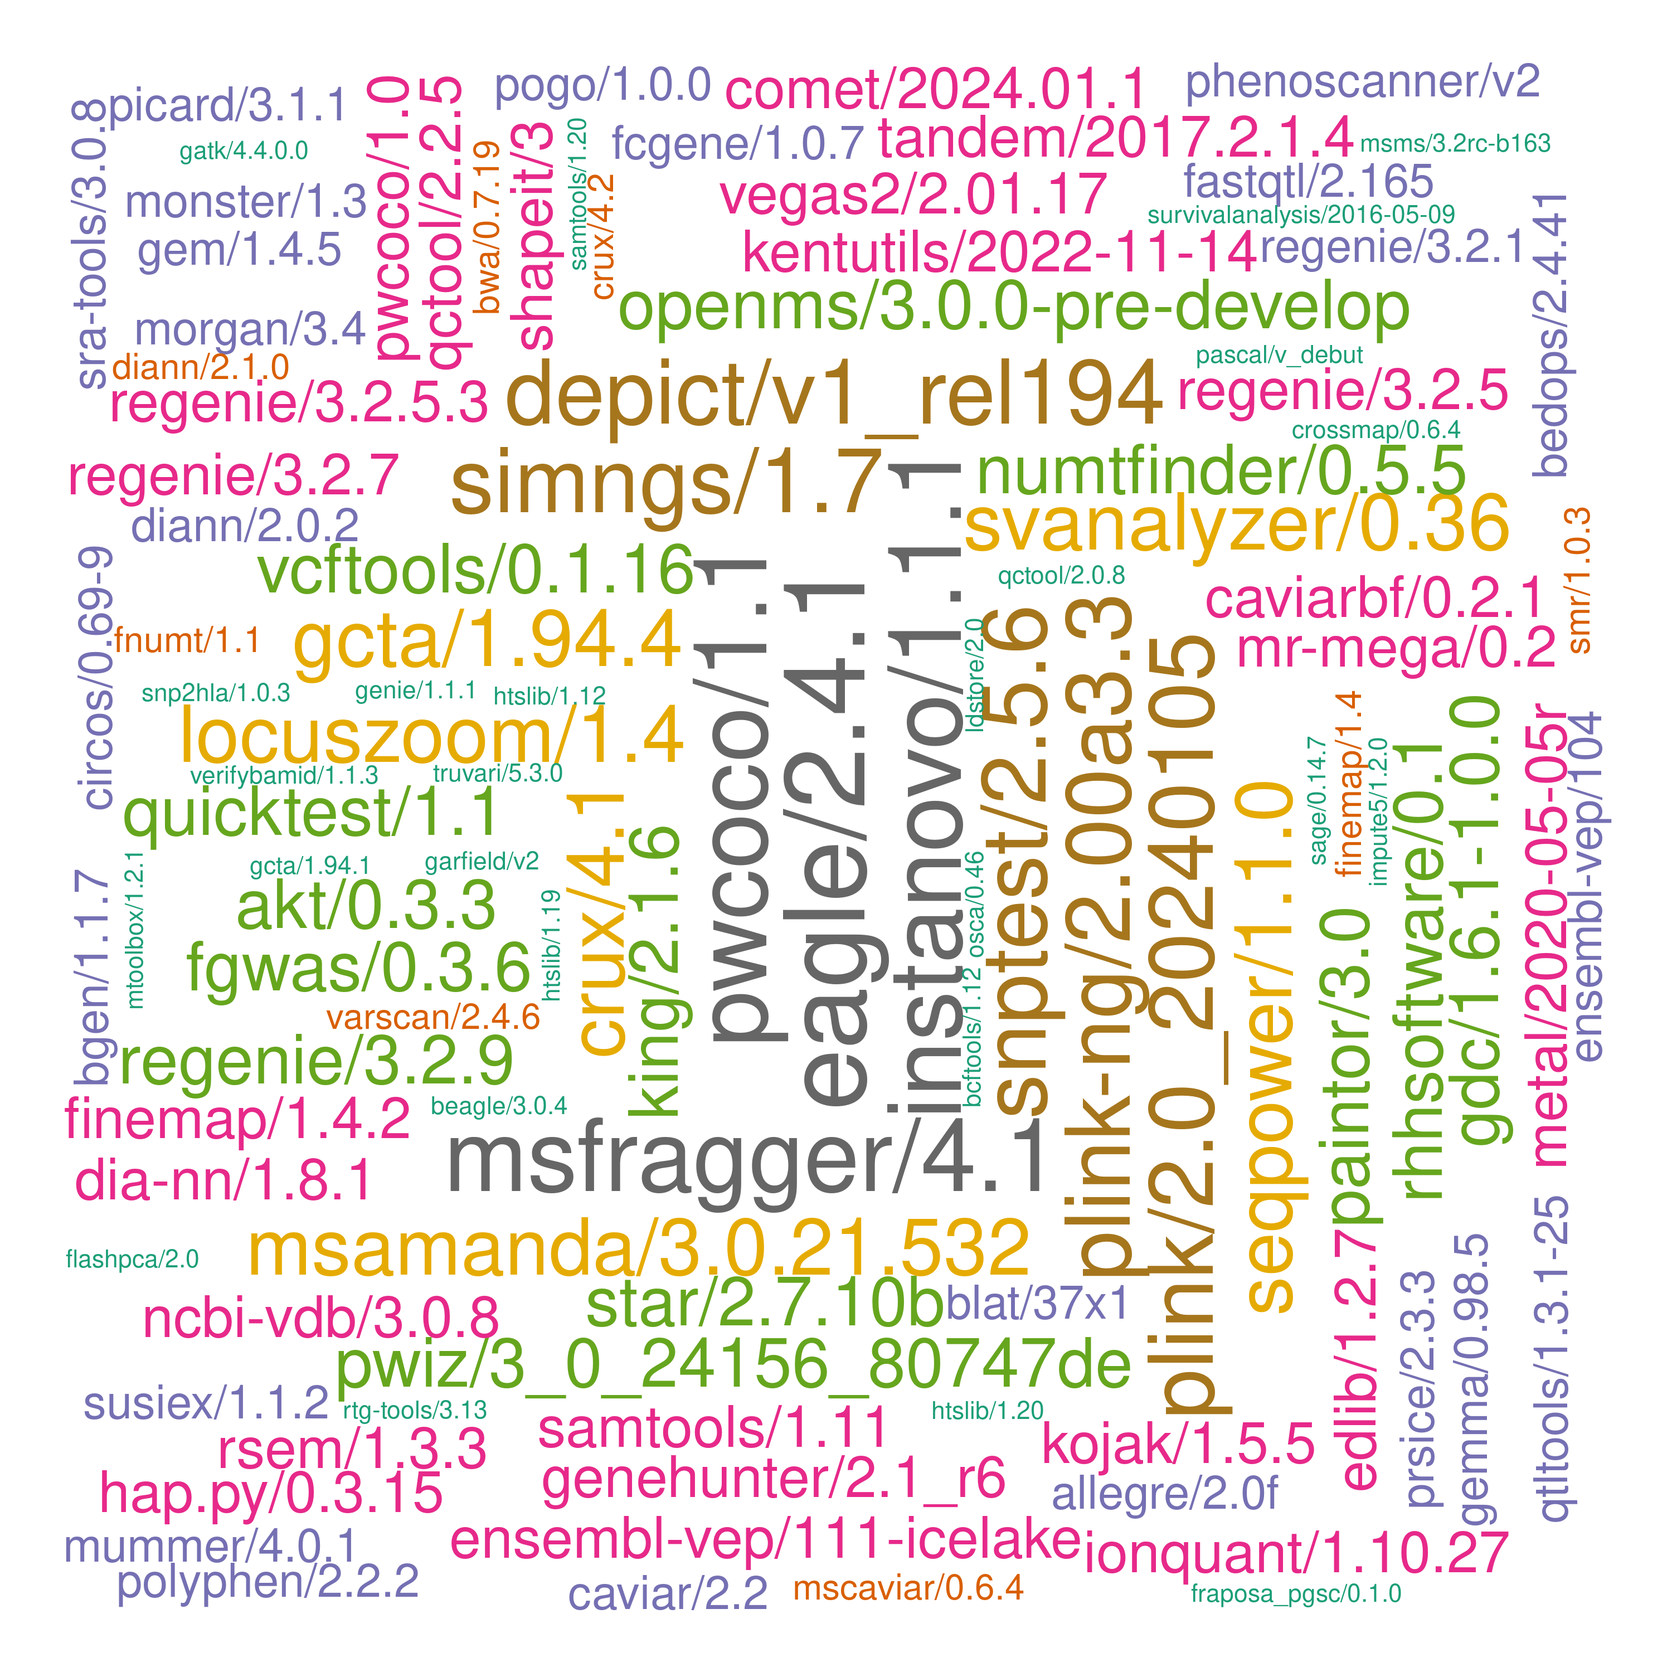
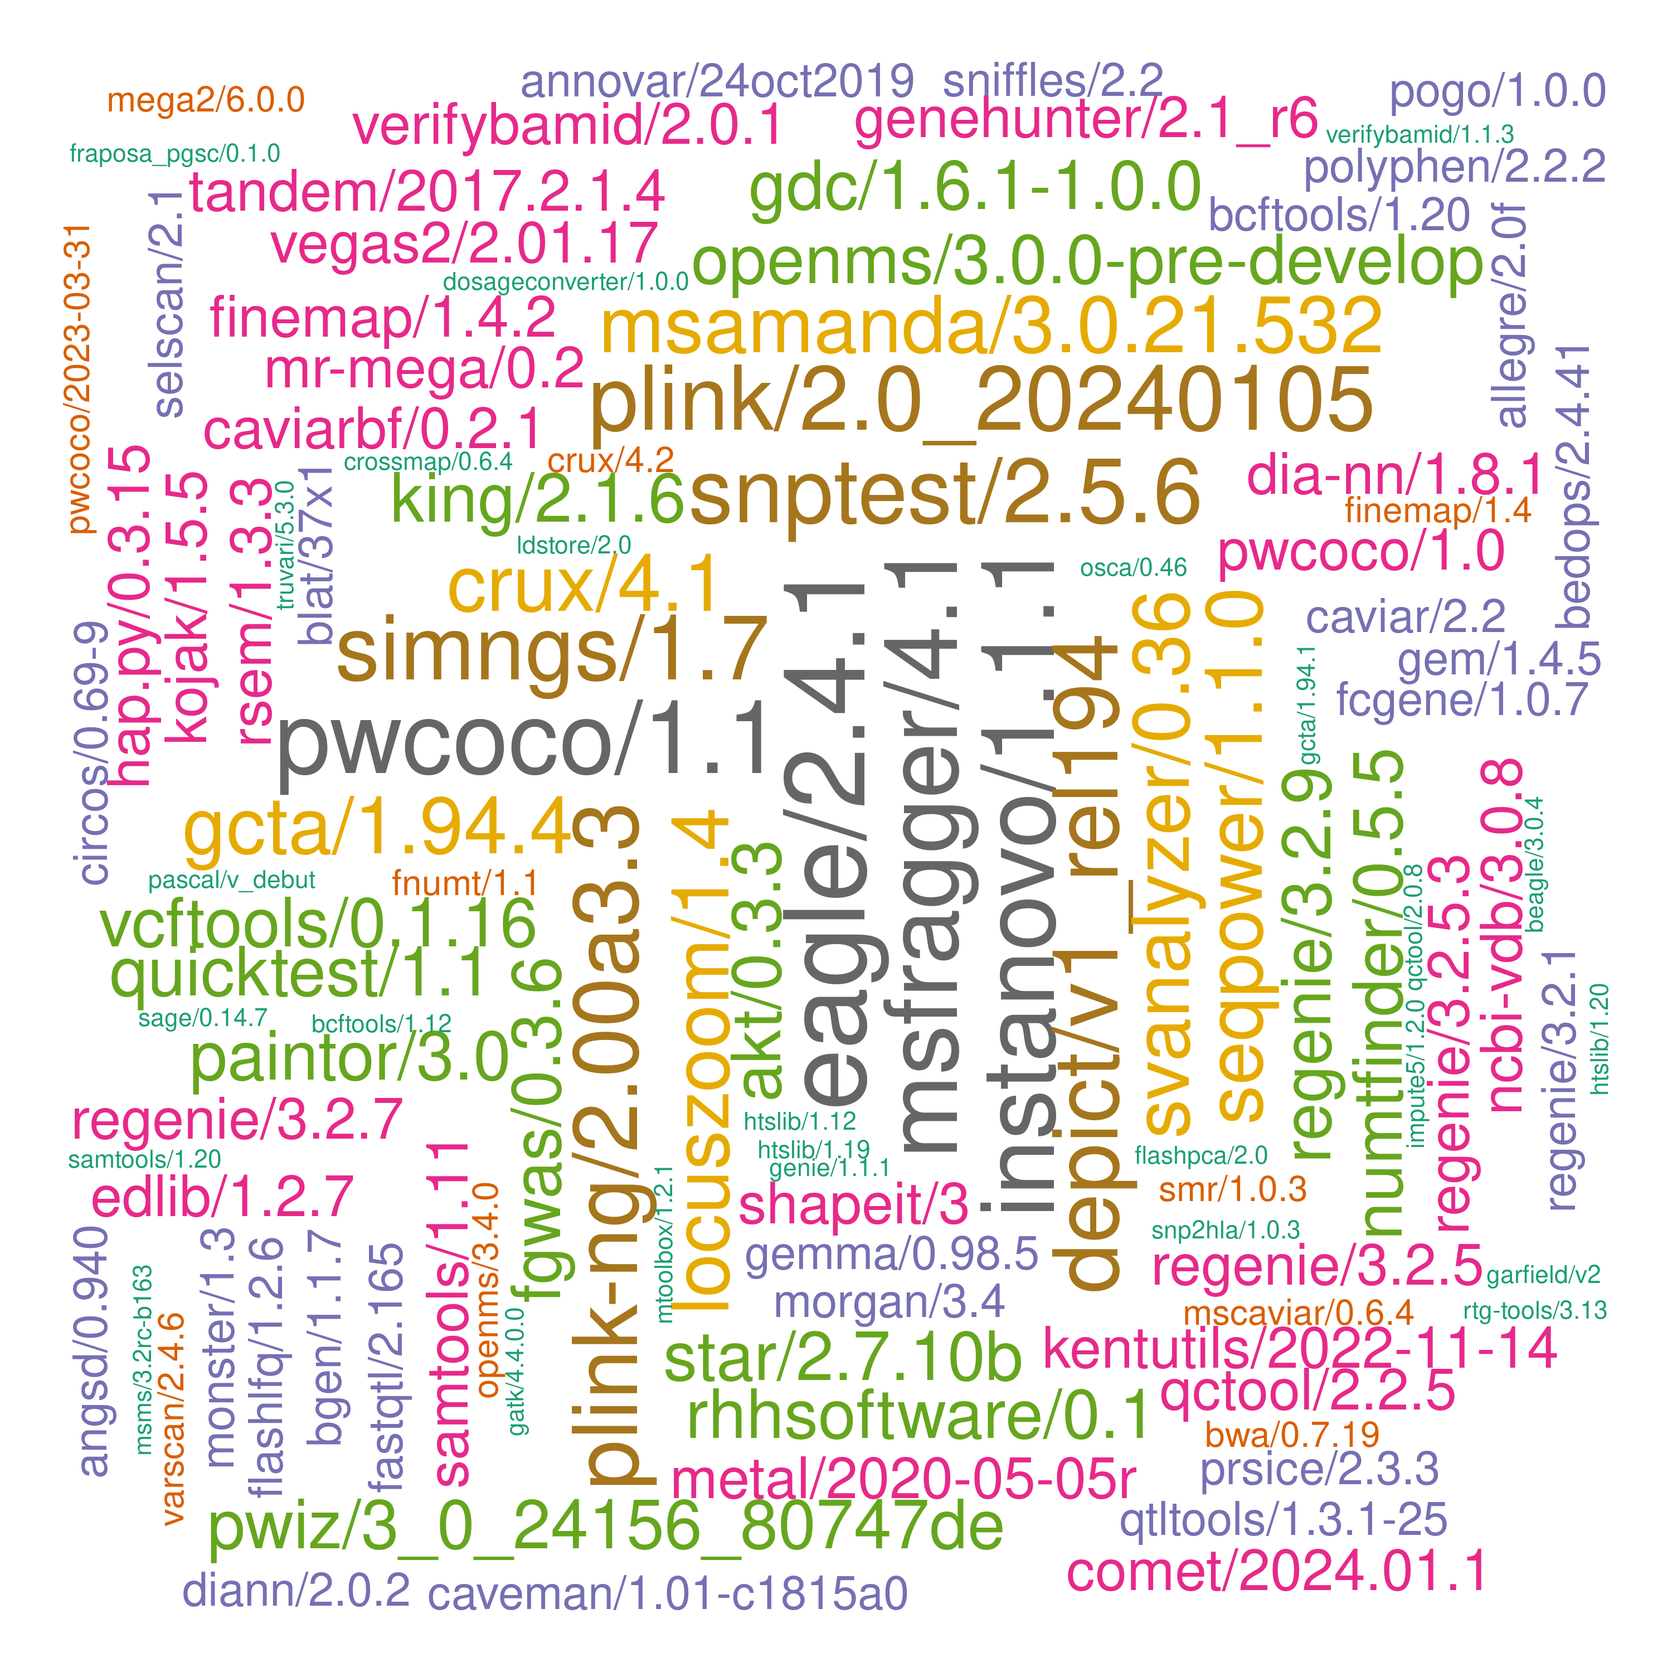
./

Changed region(s): [[0.031, 0.031, 0.961, 0.961]]

diff --git a/systems/ceuadmin.md b/systems/ceuadmin.md
@@ -16,91 +16,92 @@ The current list is as follows,
 
 ```
   [1] "ABCtoolbox"             "akt"                    "allegro"                "alpine"
-  [5] "Anaconda2"              "Anaconda3"              "annovar"                "AnythingLLMDesktop"
-  [9] "apidog"                 "aria2"                  "augeas"                 "autoconf"
- [13] "automake"               "awscli"                 "axel"                   "bazel"
- [17] "bcftools"               "Beagle"                 "bedops"                 "bedtools2"
- [21] "bgen"                   "binutils"               "biobank"                "BitNet"
- [25] "blat"                   "boltlmm"                "boost"                  "brotli"
- [29] "busybox"                "BWA"                    "C2S-Scale"              "caddy"
- [33] "CaVEMaN"                "CAVIAR"                 "CAVIARBF"               "cbindgen"
- [37] "ccal"                   "chrome"                 "chromium"               "circos"
- [41] "citeproc"               "clang"                  "cli"                    "cmake"
- [45] "cmocka"                 "comet"                  "cppunit"                "crossmap"
- [49] "crux"                   "cryptopp"               "cryptsetup"             "curl"
- [53] "Cytoscape"              "deno"                   "DEPICT"                 "device-mapper"
- [57] "diann"                  "DjVuLibre"              "docbook2X"              "docker"
- [61] "DosageConverter"        "dotnet"                 "DrugAssist"             "dump_syms"
- [65] "Eagle"                  "edge"                   "edit"                   "edlib"
- [69] "enchant"                "ensembl-vep"            "exiv2"                  "exomeplus"
- [73] "expat"                  "FastQTL"                "fcGENE"                 "ffmpeg"
- [77] "fgwas"                  "findlib"                "finemap"                "firefox"
- [81] "FlashLFQ"               "flashpca"               "fly"                    "fNUMT"
- [85] "fossil"                 "fpc"                    "FragPipe"               "fraposa_pgsc"
- [89] "freesurfer"             "fribidi"                "GARFIELD"               "gatk"
- [93] "gcc-toolset"            "gcta"                   "gdal"                   "gdc"
- [97] "geany"                  "GEM"                    "GEMMA"                  "GENIE"
-[101] "Genotype-Harmonizer"    "geos"                   "gettext"                "gh"
-[105] "ghc"                    "ghostscript"            "git"                    "git-extras"
-[109] "GitKraken"              "git-lfs"                "glib"                   "glibc"
-[113] "globusconnectpersonal"  "glpk"                   "gmp"                    "gnutls"
-[117] "go"                     "googletest"             "graphene"               "GraphicsMagick"
-[121] "GreenAlgorithms4HPC"    "gsl"                    "gsutil"                 "gtk+"
-[125] "gtksourceview"          "gtool"                  "haplogrep"              "hap.py"
-[129] "hivex"                  "hpg"                    "htslib"                 "hunspell"
-[133] "icu"                    "ImageJ"                 "ImageMagick"            "impute"
-[137] "impute5"                "inetutils"              "InstaNovo"              "IonQuant"
-[141] "JabRef"                 "JAGS"                   "jasper"                 "jq"
-[145] "json-c"                 "KentUtils"              "KING"                   "kojak"
-[149] "krb5"                   "lapack"                 "ldc2"                   "ldsc"
-[153] "LDstore"                "LEMMA"                  "leptonica"              "lib64"
-[157] "libarchive"             "libcares"               "libgcrypt"              "libgeotiff"
-[161] "libgit2"                "libglvnd"               "libiconv"               "libidn2"
-[165] "libjpeg-turbo"          "libntlm"                "libpng"                 "libseccomp"
-[169] "libsodium"              "libssh"                 "libssh2"                "libuv"
-[173] "libxml2"                "libxslt"                "linux"                  "llama.cpp"
-[177] "llm"                    "locuszoom"              "LVM2"                   "MAGENTA"
-[181] "magma"                  "Mango"                  "MaxQuant"               "Mega2"
-[185] "metal"                  "MetaMorpheus"           "micromamba"             "Miniconda3"
-[189] "miniforge3"             "MONSTER"                "MORGAN"                 "MR-MEGA"
-[193] "msamanda"               "MsCAVIAR"               "MSFragger"              "MS-GF+"
-[197] "msms"                   "MToolBox"               "MUMmer"                 "nano"
-[201] "nasm"                   "ncbi-vdb"               "ncurses"                "netbeans"
-[205] "nettle"                 "nextflow"               "nginx"                  "NLopt"
-[209] "node"                   "nspr"                   "ntlm"                   "NUMTFinder"
-[213] "ocaml"                  "ollama"                 "oniguruma"              "opam"
-[217] "openjdk"                "OpenMS"                 "openssh"                "openssl"
-[221] "osca"                   "p7zip-zstd"             "PAINTOR"                "pandoc"
-[225] "pandoc-citeproc"        "pango"                  "parallel"               "Pascal"
-[229] "patchelf"               "pcre2"                  "pdf2djvu"               "pdfjam"
-[233] "peer"                   "Perseus"                "pgsc_calc"              "PGS-CSx"
-[237] "phenoscanner"           "PhySO"                  "picard"                 "pigz"
-[241] "pkg-config"             "plink"                  "plink-bgi"              "plinkseq"
-[245] "podman"                 "PoGo"                   "polyphen"               "poppler"
-[249] "popt"                   "proj"                   "PRSice"                 "pspp"
-[253] "pulsar"                 "PWCoCo"                 "pwiz"                   "python"
-[257] "qctool"                 "qemu"                   "qpdf"                   "qt"
-[261] "qtcreator"              "QTLtools"               "quarto"                 "quicktest"
-[265] "R"                      "raremetal"              "rclone"                 "readline"
-[269] "regenie"                "regtools"               "RHHsoftware"            "RSEM"
-[273] "rst2pdf"                "rstudio"                "rtg-tools"              "rtmpdump"
-[277] "ruby"                   "rust"                   "sage"                   "samtools"
-[281] "Scala"                  "scGPT"                  "scl-utils"              "selscan"
-[285] "seqkit"                 "SEQPower"               "shapeit"                "shapeit5"
-[289] "simNGS"                 "singularity"            "SMR"                    "snakemake"
-[293] "sniffles"               "SNP2HLA"                "snptest"                "spread-sheet-widget"
-[297] "spyder"                 "sqlite"                 "sra-tools"              "sshpass"
-[301] "ssw"                    "STAR"                   "stata"                  "SurvivalAnalysis"
-[305] "SurvivalKit"            "SuSiEx"                 "SVanalyzer"             "Swift"
-[309] "SYMPHONY"               "Synapse"                "tabix"                  "tandem"
-[313] "tatami"                 "tesseract"              "texinfo"                "ThermoRawFileParser"
-[317] "ThermoRawFileParserGUI" "thunderbird"            "tidy"                   "tiff"
-[321] "trinculo"               "trousers"               "truvari"                "Typora"
-[325] "unbound"                "uv"                     "vala"                   "VarScan"
-[329] "vcftools"               "vdo"                    "VEGAS2"                 "verifyBamID"
-[333] "VirtualBox"             "VSCode"                 "VSCodium"               "vte"
-[337] "Windsurf"               "wine"                   "wrk"                    "xpdf"
-[341] "yaml-cpp"               "Zettlr"                 "Zotero"                 "zstd"
+  [5] "Anaconda2"              "Anaconda3"              "angsd"                  "annovar"
+  [9] "AnythingLLMDesktop"     "apidog"                 "aria2"                  "augeas"
+ [13] "autoconf"               "automake"               "awscli"                 "axel"
+ [17] "bazel"                  "bcftools"               "Beagle"                 "bedops"
+ [21] "bedtools2"              "bgen"                   "binutils"               "biobank"
+ [25] "BitNet"                 "blat"                   "boltlmm"                "boost"
+ [29] "brotli"                 "busybox"                "BWA"                    "C2S-Scale"
+ [33] "caddy"                  "CaVEMaN"                "CAVIAR"                 "CAVIARBF"
+ [37] "cbindgen"               "ccal"                   "chrome"                 "chromium"
+ [41] "circos"                 "citeproc"               "clang"                  "cli"
+ [45] "cmake"                  "cmocka"                 "comet"                  "cppunit"
+ [49] "crossmap"               "crux"                   "cryptopp"               "cryptsetup"
+ [53] "curl"                   "Cytoscape"              "deno"                   "DEPICT"
+ [57] "device-mapper"          "diann"                  "DjVuLibre"              "docbook2X"
+ [61] "docker"                 "DosageConverter"        "dotnet"                 "DrugAssist"
+ [65] "dump_syms"              "Eagle"                  "edge"                   "edit"
+ [69] "edlib"                  "enchant"                "ensembl-vep"            "exiv2"
+ [73] "exomeplus"              "expat"                  "FastQTL"                "fcGENE"
+ [77] "ffmpeg"                 "fgwas"                  "findlib"                "finemap"
+ [81] "firefox"                "FlashLFQ"               "flashpca"               "fly"
+ [85] "fNUMT"                  "fossil"                 "fpc"                    "FragPipe"
+ [89] "fraposa_pgsc"           "freesurfer"             "fribidi"                "GARFIELD"
+ [93] "gatk"                   "gcc-toolset"            "gcta"                   "gdal"
+ [97] "gdc"                    "geany"                  "GEM"                    "GEMMA"
+[101] "GENIE"                  "Genotype-Harmonizer"    "geos"                   "gettext"
+[105] "gh"                     "ghc"                    "ghostscript"            "git"
+[109] "git-extras"             "GitKraken"              "git-lfs"                "glib"
+[113] "glibc"                  "globusconnectpersonal"  "glpk"                   "gmp"
+[117] "gnutls"                 "go"                     "googletest"             "graphene"
+[121] "GraphicsMagick"         "GreenAlgorithms4HPC"    "gsl"                    "gsutil"
+[125] "gtk+"                   "gtksourceview"          "gtool"                  "haplogrep"
+[129] "hap.py"                 "hivex"                  "hpg"                    "htslib"
+[133] "hunspell"               "icu"                    "ImageJ"                 "ImageMagick"
+[137] "impute"                 "impute5"                "inetutils"              "InstaNovo"
+[141] "IonQuant"               "JabRef"                 "JAGS"                   "jasper"
+[145] "jq"                     "json-c"                 "KentUtils"              "KING"
+[149] "kojak"                  "krb5"                   "lapack"                 "ldc2"
+[153] "ldsc"                   "LDstore"                "LEMMA"                  "leptonica"
+[157] "lib64"                  "libarchive"             "libcares"               "libgcrypt"
+[161] "libgeotiff"             "libgit2"                "libglvnd"               "libiconv"
+[165] "libidn2"                "libjpeg-turbo"          "libntlm"                "libpng"
+[169] "libseccomp"             "libsodium"              "libssh"                 "libssh2"
+[173] "libuv"                  "libxml2"                "libxslt"                "linux"
+[177] "llama.cpp"              "llm"                    "locuszoom"              "LVM2"
+[181] "MAGENTA"                "magma"                  "Mango"                  "MaxQuant"
+[185] "Mega2"                  "metal"                  "MetaMorpheus"           "micromamba"
+[189] "Miniconda3"             "miniforge3"             "MONSTER"                "MORGAN"
+[193] "MR-MEGA"                "msamanda"               "MsCAVIAR"               "MSFragger"
+[197] "MS-GF+"                 "msms"                   "MToolBox"               "MUMmer"
+[201] "nano"                   "nasm"                   "ncbi-vdb"               "ncurses"
+[205] "netbeans"               "nettle"                 "nextflow"               "nginx"
+[209] "NLopt"                  "node"                   "nspr"                   "ntlm"
+[213] "NUMTFinder"             "ocaml"                  "ollama"                 "oniguruma"
+[217] "opam"                   "openjdk"                "OpenMS"                 "openssh"
+[221] "openssl"                "osca"                   "p7zip-zstd"             "PAINTOR"
+[225] "pandoc"                 "pandoc-citeproc"        "pango"                  "parallel"
+[229] "Pascal"                 "patchelf"               "pcre2"                  "pdf2djvu"
+[233] "pdfjam"                 "peer"                   "Perseus"                "pgsc_calc"
+[237] "PGS-CSx"                "phenoscanner"           "PhySO"                  "picard"
+[241] "pigz"                   "pkg-config"             "plink"                  "plink-bgi"
+[245] "plinkseq"               "podman"                 "PoGo"                   "polyphen"
+[249] "poppler"                "popt"                   "proj"                   "PRSice"
+[253] "pspp"                   "pulsar"                 "PWCoCo"                 "pwiz"
+[257] "python"                 "qctool"                 "qemu"                   "qpdf"
+[261] "qt"                     "qtcreator"              "QTLtools"               "quarto"
+[265] "quicktest"              "R"                      "raremetal"              "rclone"
+[269] "readline"               "regenie"                "regtools"               "RHHsoftware"
+[273] "RSEM"                   "rst2pdf"                "rstudio"                "rtg-tools"
+[277] "rtmpdump"               "ruby"                   "rust"                   "sage"
+[281] "samtools"               "Scala"                  "scGPT"                  "scl-utils"
+[285] "selscan"                "seqkit"                 "SEQPower"               "shapeit"
+[289] "shapeit5"               "simNGS"                 "singularity"            "SMR"
+[293] "snakemake"              "sniffles"               "SNP2HLA"                "snptest"
+[297] "spread-sheet-widget"    "spyder"                 "sqlite"                 "sra-tools"
+[301] "sshpass"                "ssw"                    "STAR"                   "stata"
+[305] "SurvivalAnalysis"       "SurvivalKit"            "SuSiEx"                 "SVanalyzer"
+[309] "Swift"                  "SYMPHONY"               "Synapse"                "tabix"
+[313] "tandem"                 "tatami"                 "tesseract"              "texinfo"
+[317] "ThermoRawFileParser"    "ThermoRawFileParserGUI" "thunderbird"            "tidy"
+[321] "tiff"                   "trinculo"               "trousers"               "truvari"
+[325] "Typora"                 "unbound"                "uv"                     "vala"
+[329] "VarScan"                "vcftools"               "vdo"                    "VEGAS2"
+[333] "verifyBamID"            "VirtualBox"             "VSCode"                 "VSCodium"
+[337] "vte"                    "Windsurf"               "wine"                   "wrk"
+[341] "xpdf"                   "yaml-cpp"               "Zettlr"                 "Zotero"
+[345] "zstd"
 ```
 
 These are wrapped up as :star::star::star: **[modules](https://modules.readthedocs.io/en/latest/index.html)** :star::star::star:.
@@ -445,6 +446,7 @@ Further information is avaiiable from **/usr/local/Cluster-Apps/ceuadmin/doc/ceu
     | 2025-08-18 | impute5/1.2.0                | Genetics    |
     | ""         | shapeit5/5.1.1               | Genetics    |
     | 2025-09-01 | selscan/2.1                  | Genetics    |
+    | ""         | angsd/0.940                  | Genetics    |
 
     \* CEU or approved users only -- when not indicated can be found out from the folder associated with a module.
 

diff --git a/systems/setup.md b/systems/setup.md
@@ -475,6 +475,7 @@ All entries are ordered chronologically.
 | 2025-08-27 | ollama/0.11.7                    | Generic               |
 | 2025-08-28 | Zettlr/3.6.0                     | Generic               |
 | 2025-09-01 | selscan/2.1                      | Genetics              |
+| ""         | angsd/0.940                      | Genetics[^angsd]      |
 
 \* CEU or approved users only -- when not indicated can be found out from the folder associated with a module.
 
@@ -1977,3 +1978,15 @@ They are generated from script [setup.sh](setup.sh),
     Web: <https://dl.rockylinux.org/vault/centos/8-stream/AppStream/x86_64/os/Packages/>
 
     Files are downloaded and extracted via [gcc-toolset-12.sh](files/gcc-toolset-12.sh), and post-processed with `cd gcc-toolset-12;rsync -a --exclude='opt/' opt/rh/gcc-toolset-12/root/ .`.
+
+[^angsd]: **angsd**
+
+
+    ```bash
+    wget -oQ- https://github.com/ANGSD/angsd/releases/download/0.940/angsd0.940.tar.gz | \
+    tar xf -
+    cd angsd
+    make install prefix=$CEUADMIN/angsd/0.940
+    ```
+
+    Note that .tar.gz file is actually NOT gzipped.
